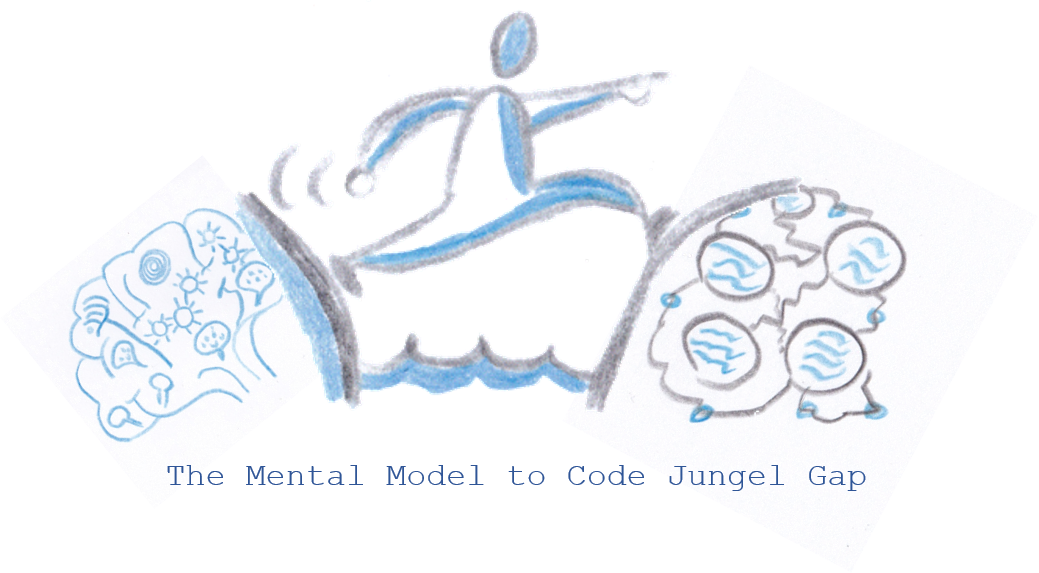
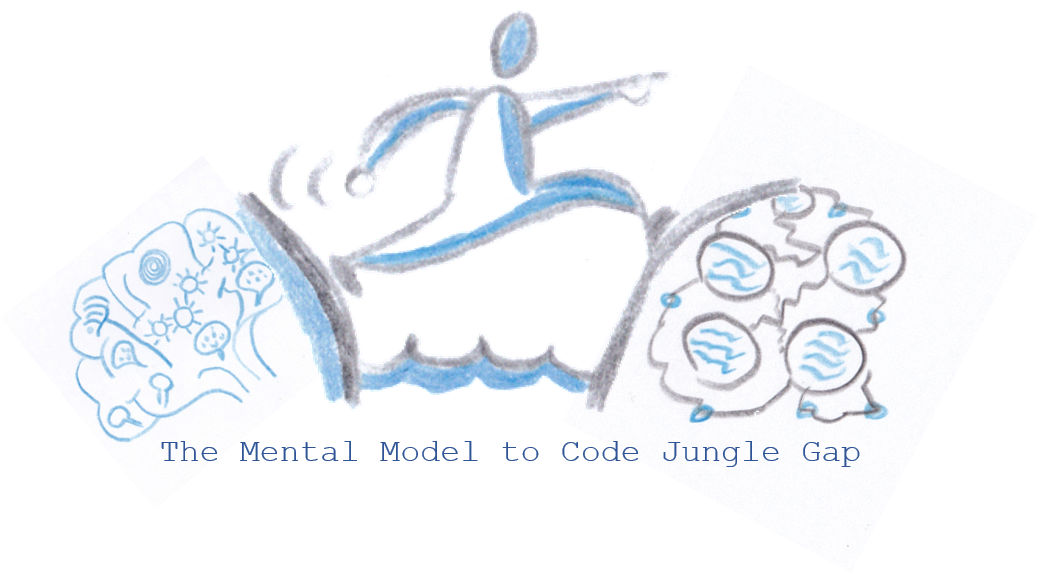
Enhanced essay

diff --git a/manuscript/anita-kvamme/essay.md b/manuscript/anita-kvamme/essay.md
@@ -3,11 +3,11 @@
 ## My Way into Modelling
 Having a usability background, I learned years ago about a model which stated that if you are able to communicate the functionality by using a design model, which reflects the user´s mental model, you are more likely to get a system with a high degree of usability. This model is probably best known from Don Norman famous book The Design of Everyday Things published back in 1988.
 
-A mental model is what the user believes they know about the system at hand. The users´ mental model for a business solution will be influenced by both theirs mental model of the business and their model of how these types of solutions typically work. 
+A mental model is what the user believes they know about the system at hand. The users´ mental model for a business solution will be influenced by both their mental model of the business and their mental model of how these types of solutions typically work. 
 
-The user unconsciously exploits this model to predict the system´s behavior. In order to design a solution with high degree of usability, the designer model must be as close as possible to the user´s mental model. That way, a user will be more likely to correctly predict how the solution works. 
+The user unconsciously exploits this model to predict the system´s behaviour. In order to design a solution with high degree of usability, the designer model must be as close as possible to the user´s mental model. That way, a user will be more likely to correctly predict how the solution works. 
 
-As a UX person I love usability testing where users are thinking aloud when they perform their tasks, since this gives me a sneak peek into how they are thinking and by that getting real insights into theirs mental model. This insight can be exploited to adjust the designer´s model, and for me chasing the ultimate designer model, was my door to into the world of modelling. 
+As a UX person I love usability testing where users are thinking aloud when they perform their tasks, since this gives me a sneak peek into how they are thinking and by that getting real insights into their mental model. This insight can be exploited to adjust the designer´s model, and for me chasing the ultimate designer model, was my door to into the world of modelling. 
 ![](../images/anita-kvamme/SneakPeekIntoMentalModel.png)
 
 Many years later the company I worked for had hired Eric Evans himself to help us using DDD. I clearly remember him on stage of our biggest auditorium asking if anyone had any stories about modelling to share. There I was, having the stories based on years of experience with user interface design, but lacking the courage to share them.
@@ -15,29 +15,29 @@ Many years later the company I worked for had hired Eric Evans himself to help u
 What I wanted to share were stories from real project where the focus on the designer´s model also lead to changes in how the technical solution was implemented. One time when I asked the rest of my team, "where does "concept X" belong in our design model", we agreed that the concept would not make sense for a user and should not be visible through the user interface. After deciding that, it was a short way to remove the concept completely from the technical design, all the way down to the database model. In this case, the focus on usability influenced the codebase in a similar fashion as DDD want us to do, and this was years before the famous blue book. 
 
 ## The Coder´s Mental Model
-Domain modelling is an important part of DDD, and this makes it easier to solve the complex business problems. However, I believe DDD has another benefit as well, namely making a good environment for coders to build a useful mental model. So what do I mean by that? 
+Domain modelling is an important part of DDD, and this makes it easier to solve the complex business problems. However, I believe DDD has another benefit as well, namely making a good environment for coders to build a useful mental model. So, what do I mean by that? 
 
 Jessica Kerr said in her brilliant keynote at Explore DDD that a mental model must be mad by continuous adding bits of understanding. And she pointed out that this explains why there is so many Java Script frameworks out there. That is because it is much easier to make your own, and at the same time incrementally building the mental model of how it works, than to build a correct mental model of an existing framework. 
 
-With a complex business application with a set of bounded contexts rewrite isn´t typically an options. So we need another way of helping experience coders and newbies in the team to build a share understanding, and by that be more likely to build similar and useful mental models that will offer real guidance in the code jungle. 
+With a complex business application with a set of bounded contexts rewrite isn´t typically an option. So, we need another way of helping experience coders and newbies in the team to build a share understanding, and by that be more likely to build similar and useful mental models that will offer real guidance in the code jungle. 
 
 To apply the same pattern as used for years in the usability area, the goal should be to make a codebase structured in such a way that the coder´s mental model will help the them to correctly predict how to navigate in, and enhance, the code. Because, when I find my way around the code written by others, it´s my mental model of the codebase that leads the way. And similar, when I code, it is my mental model of the codebase, in combination of my belief of how we as a team want it to be structured, that guides my coding. 
 
 The mental model is internal to each coder´s brain and will differ. As Jakob Nilsen, an well know usability expert, states mental models are in flux exactly because they're embedded in a brain rather than fixed in an external medium. Additional experience with the system can obviously change the model, but users might also update their mental models based on stimuli from elsewhere, such as talking to other users or even applying lessons from other systems.
 
-However, even though we cannot predict the coder´s mental model of the codebase, or decided that all coders should have the same model, it is possible to structure the codebase in such a way that it is more likely that the coder´s mental model will give correct predictions. So, what influence the coder´s mental model in this context?
+However, even though we cannot predict the coder´s mental model of the codebase or decided that all coders should have the same model, it is possible to structure the codebase in such a way that it is more likely that the coder´s mental model will give correct predictions. So, what influence the coder´s mental model in this context?
 
-* Inside the potentially huge amount of code which implements the domain behavior, when applying DDD right by using the ubiquitous language explicit in the code, everybody that share an understanding of this language will have a common foundation that helps them to build a useful mental model.  And coders not knowing the business domain will benefit from using time to learn the domain in order to enhance their mental model, instead of using time to wandering around in a code landscape where all the words are more randomly chosen. 
+* Inside the potentially huge amount of code which implements the domain behaviour, when applying DDD right by using the ubiquitous language explicit in the code, everybody that share an understanding of this language will have a common foundation that helps them to build a useful mental model.  And coders not knowing the business domain will benefit from using time to learn the domain to enhance their mental model, instead of using time to wandering around in a code landscape where all the words are more randomly chosen. 
 * In a huge and complex business area, having strict boundaries between different bounded context will make it possible for the users to predict what bounded context a give piece of functionality belongs to. 
 * Applying architecture patterns, as for instance the hexagonal architecture, will influence where to look for repository code, app service code and domain code. If the coder´s do not know this architecture pattern, acquiring this knowledge helps building this understanding. 
 
-Together all these aspects will highly influence the coder´s mental model of the codebase. However, learning more about the domain and the chosen technical architecture will only have a positive influence on the coder´s mental model given that the solution is implemented in a consistent manner. On the other hand, if the functionality is placed inside the wrong bounded context, if the domain logic has leaked into the repository, or if a change of the language isn´t reflected in the code, the coder´s mental model is likely to be misleading. Therefore not following these DDD principles does not only make the IT solution building up technical debt, it also makes the foundation for the coders to build a useful mental model weaker. 
+Together all these aspects will highly influence the coder´s mental model of the codebase. However, learning more about the domain and the chosen technical architecture will only have a positive influence on the coder´s mental model given that the solution is implemented in a consistent manner. On the other hand, if the functionality is placed inside the wrong bounded context, if the domain logic has leaked into the repository, or if a change of the language isn´t reflected in the code, the coder´s mental model is likely to be misleading. Therefore, not following these DDD principles does not only make the IT solution building up technical debt, it also makes the foundation for the coders to build a useful mental model weaker. 
 
 ## Minimizing the Mental Model to Code Jungle Gap
 The same way that people in the usability area for decades have work against minimizing the gap between the designer´s model and the user´s mental model, DDD is a powerful set of principles to facilitate for a small as possible gap between the coder´s mental model of the codebase and the code. So for me, applying DDD isn´t just fun and useful when implementing complex business functionality, it is actually usability for the coders.
 ![](../images/anita-kvamme/MentalModelCodeGap.png)
 
-Sometimes I wonder, if it is this usability aspect of DDD that is the explination for when having started to apply DDD, it is seems hard to stop. And who knows, maybe that is part of the reason why DDD is celebrating 15. years anniversary with increasing popularity. 
+Sometimes I wonder, if it is this usability aspect of DDD that is the explanation for when having started to apply DDD, it is seems hard to stop. And who knows, maybe that is part of the reason why DDD is celebrating 15. years anniversary with increasing popularity. 
 
 ## References
 - The Design of Everyday Things, author: Dan Norman, published in 1988.
